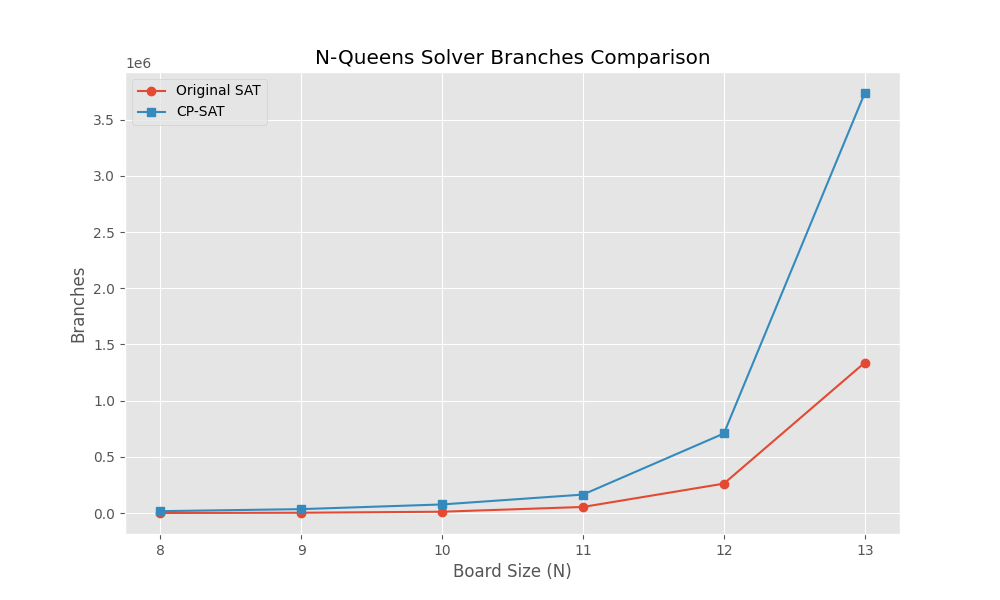
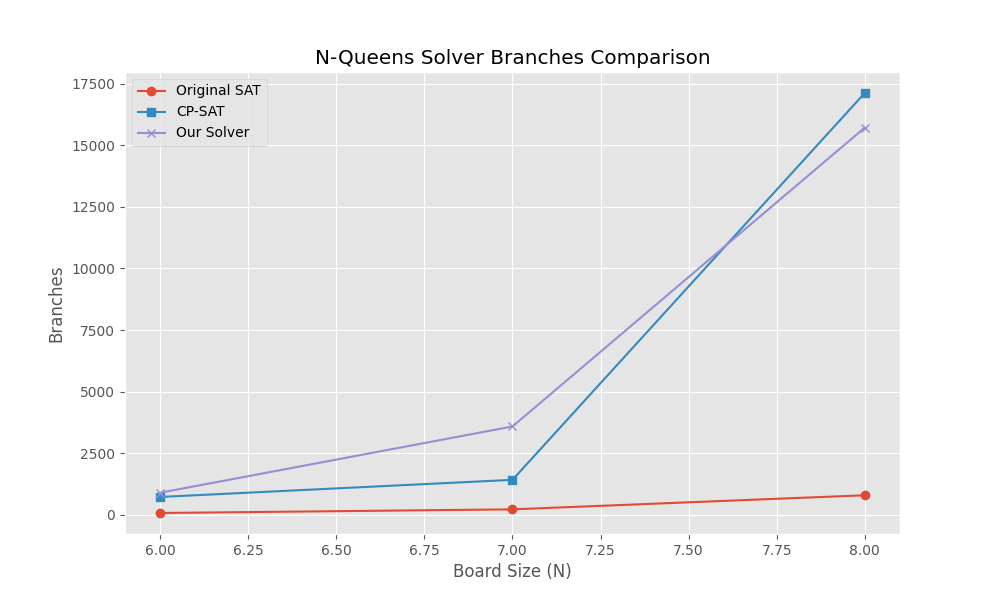
added our solver results

diff --git a/sat/comparison.py b/sat/comparison.py
@@ -2,6 +2,7 @@ import os
 import matplotlib.pyplot as plt
 from n_queens_original_SAT import original_SAT_solver
 from n_queens_cpSAT import cp_SAT_solver
+from our_solver import our_solver
 from ortools.constraint_solver import pywrapcp
 
 def main():
@@ -10,12 +11,13 @@ def main():
     plt.style.use('ggplot')
     
     # Define board sizes to test
-    sizes = range(8, 14)
+    sizes = range(6, 9)
     
     # Data structures for statistics
     stats = {
         'original': {'time': [], 'solutions': [], 'branches': [], 'failures': []},
-        'cp': {'time': [], 'solutions': [], 'branches': [], 'failures': []}
+        'cp': {'time': [], 'solutions': [], 'branches': [], 'failures': []},
+        'ours': {'time': [], 'solutions': [], 'branches': [], 'failures': []}
     }
     
     # Collect data
@@ -27,6 +29,9 @@ def main():
 
         # Get stats from CP-SAT solver
         cp_conflicts, cp_branches, cp_time, cp_solutions = cp_SAT_solver(size)
+
+        # Get stats from our solver
+        our_failures, our_branches, our_time, our_solutions = our_solver(size)
         
         # Store statistics
         stats['original']['time'].append(orig_time)
@@ -37,6 +42,10 @@ def main():
         stats['cp']['solutions'].append(cp_solutions)
         stats['cp']['branches'].append(cp_branches)
         stats['cp']['failures'].append(cp_conflicts)
+        stats['ours']['time'].append(our_time)
+        stats['ours']['solutions'].append(our_solutions)
+        stats['ours']['branches'].append(our_branches)
+        stats['ours']['failures'].append(our_failures)
 
     # Time comparison plot
     plt.figure(figsize=(10, 6))
@@ -44,6 +53,8 @@ def main():
              stats['original']['time'], 'o-', label="Original SAT")
     plt.plot(sizes[:len(stats['cp']['time'])], 
              stats['cp']['time'], 's-', label="CP-SAT")
+    plt.plot(sizes[:len(stats['ours']['time'])],
+                stats['ours']['time'], 'x-', label="Our Solver")
     plt.xlabel("Board Size (N)")
     plt.ylabel("Time (s)")
     plt.title("N-Queens Solver Time Comparison")
@@ -56,10 +67,13 @@ def main():
     #Failures comparison plot
     plt.figure(figsize=(10, 6))
     plt.figure(figsize=(10, 6))
+    plt.yscale('log')
     plt.plot(sizes[:len(stats['original']['failures'])], 
              stats['original']['failures'], 'o-', label="Original SAT")
     plt.plot(sizes[:len(stats['cp']['failures'])], 
              stats['cp']['failures'], 's-', label="CP-SAT")
+    plt.plot(sizes[:len(stats['ours']['failures'])],
+                stats['ours']['failures'], 'x-', label="Our Solver")
     plt.xlabel("Board Size (N)")
     plt.ylabel("Failures")
     plt.title("N-Queens Solver Failures Comparison")
@@ -75,6 +89,8 @@ def main():
              stats['original']['branches'], 'o-', label="Original SAT")
     plt.plot(sizes[:len(stats['cp']['branches'])], 
              stats['cp']['branches'], 's-', label="CP-SAT")
+    plt.plot(sizes[:len(stats['ours']['branches'])],
+                stats['ours']['branches'], 'x-', label="Our Solver")
     plt.xlabel("Board Size (N)")
     plt.ylabel("Branches")
     plt.title("N-Queens Solver Branches Comparison")
@@ -83,10 +99,15 @@ def main():
     plt.savefig('pics/n_branches_comparison.png')
     plt.show()
 
-    #no. solutions cp-sat solver
+    #no. solutions (all have the same number of solutions)
     plt.figure(figsize=(10, 6))
     plt.plot(sizes[:len(stats['cp']['solutions'])], 
              stats['cp']['solutions'], 's-')
+    plt.plot(sizes[:len(stats['ours']['solutions'])],
+                stats['ours']['solutions'], 'x-')
+    plt.plot(sizes[:len(stats['original']['solutions'])], 
+             stats['original']['solutions'], 'o-')
+    plt.plot(size)
     plt.xlabel("Board Size (N)")
     plt.ylabel("Number of Solutions")
     plt.title("N-Queens Solutions Found")

diff --git a/sat/our_solver.py b/sat/our_solver.py
@@ -1,0 +1,34 @@
+import time
+
+def is_safe(board, row, col, n):
+    # Check diagonals only (row conflicts impossible in this representation)
+    for i in range(col):
+        if board[i] == row or \
+           abs(board[i] - row) == abs(i - col):
+            return False
+    return True
+
+def our_solver(n):
+    board = [-1] * n
+    solutions = []
+    stats = {'failures': 0, 'branches': 0}
+    
+    def backtrack(col):
+        if col >= n:
+            solutions.append(board[:])
+            return
+        
+        for row in range(n):
+            stats['branches'] += 1
+            if is_safe(board, row, col, n):
+                board[col] = row
+                backtrack(col + 1)
+            else:
+                stats['failures'] += 1
+        board[col] = -1
+    
+    start_time = time.time()
+    backtrack(0)
+    time_taken = time.time() - start_time
+    
+    return stats['failures'], stats['branches'], time_taken, len(solutions)
